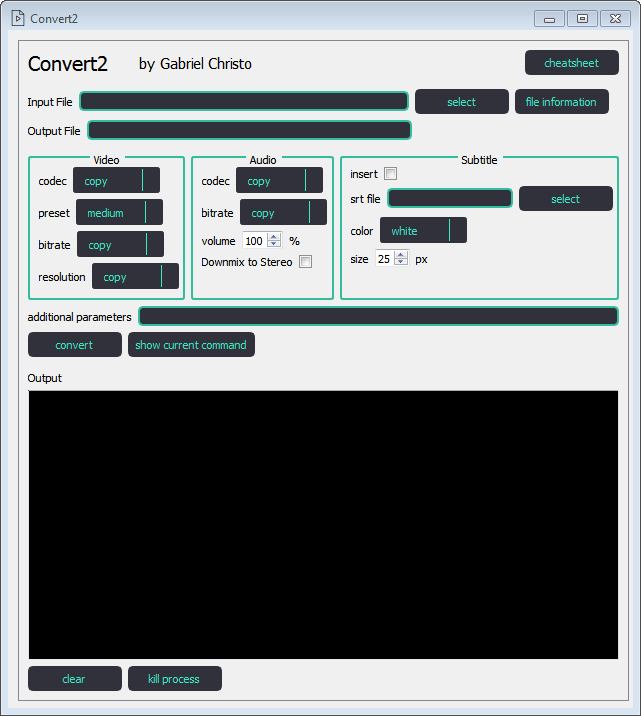
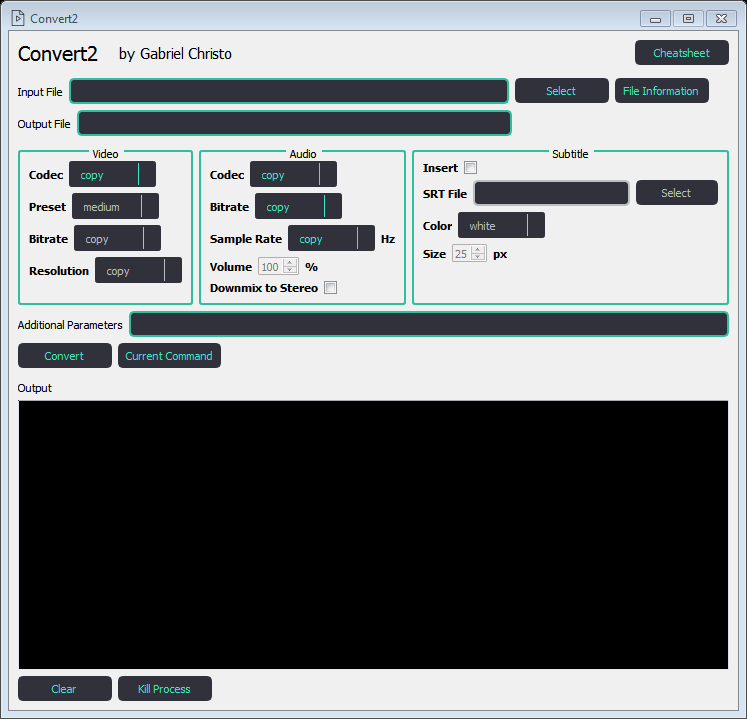
added audio rate option video and audio codec logic at command builder updated readme and screenshot style and ui changes

Changed region(s): [[0.0, 0.0, 1.0, 1.0]]

diff --git a/style.css b/style.css
@@ -11,10 +11,7 @@ Gray				rgb(185, 190, 192)
 
 https://doc.qt.io/qt-5/stylesheet-reference.html
 
-background-color: qlineargradient(spread:pad, x1:0, y1:0, x2:1, y2:1, stop:0 rgba(42, 44, 111, 255), stop:0.521368 rgba(28, 29, 73, 255));
-
 */
-
 
 /* Cheatsheet */
 scrollablePopup QLabel{
@@ -88,6 +85,7 @@ QLineEdit {
     background: rgb(48, 49, 59);
 	color: rgb(60, 231, 195);
     selection-background-color: rgb(185, 190, 192);
+	height: 22px;
 }
 QLineEdit:hover, QLineEdit:focus{
 	border: 2px solid rgb(86, 133, 184);
@@ -116,6 +114,9 @@ QPushButton:pressed {
 }
 QPushButton:!enabled{
 	color: rgb(185, 190, 192);
+}
+QPushButton#sSelectButton{
+	padding: 4px 0px;
 }
 	
 	

diff --git a/convert2.py b/convert2.py
@@ -23,16 +23,16 @@ class Convert2(QMainWindow):
 	def __init__(self):
 		super(__class__, self).__init__()
 		uic.loadUi("./convert2.ui", self)
-		self.setWindowTitle("Convert2 - by Gabriel Christo")
+		self.setWindowTitle("Convert2")
 		self.setWindowIcon(QIcon("./icon.png"))
-		self.nameLabel.setVisible(False)
+		self.setWindowFlags(Qt.WindowCloseButtonHint | Qt.WindowMinimizeButtonHint)
+		self.nameLabel.setVisible(True)
 		self.command = CmdBuilder()
 		self.path = QDir.currentPath()
 		self.process = QProcess(self)
 		self.process.setProcessChannelMode(QProcess.MergedChannels)
 		self.popup = scrollablePopup()
 		self.connects()
-		
 		
 	def connects(self):
 	
@@ -57,6 +57,7 @@ class Convert2(QMainWindow):
 		self.aBitrateCombo.currentTextChanged.connect(self.command.set_audio_bitrate) # set audio bitrate
 		self.downmixCheckbox.stateChanged.connect(self.command.set_audio_downmix) # set audio downmix
 		self.aVolumeSpinbox.valueChanged.connect(self.command.set_audio_volume) # set audio volume
+		self.aRateCombobox.currentTextChanged.connect(self.command.set_audio_rate) # set audio sample rate frequency
 		
 		self.sCheckbox.stateChanged.connect(self.command.set_subtitle_insert) # set subtitle use
 		self.sCheckbox.stateChanged.connect(self.toggle_subtitle_options) # enable/disable subtitle options
@@ -120,6 +121,7 @@ class Convert2(QMainWindow):
 	def show_cheatsheet(self) -> None:
 		self.popup.setText(CHEATSHEET + XBOX_FORMATS)
 		self.popup.setTitle("FFMPEG Cheatsheet")
+		self.popup.setWindowIcon(QIcon("./icon.png"))
 		self.popup.show()
 		
 	def show_message_box(self, text: str, title: str) -> None:
@@ -127,6 +129,7 @@ class Convert2(QMainWindow):
 		msgBox.setIcon(QMessageBox.Information)
 		msgBox.setText(text)
 		msgBox.setWindowTitle(title)
+		msgBox.setWindowIcon(QIcon("./icon.png"))
 		msgBox.setStandardButtons(QMessageBox.Ok)
 		msgBox.exec()
 		
@@ -140,9 +143,7 @@ class Convert2(QMainWindow):
 	@pyqtSlot(str)
 	def toggle_audio_options(self, crrtText: str) -> None:
 		bool = False if crrtText == "copy" else True
-		self.aBitrateCombo.setEnabled(bool)
 		self.aVolumeSpinbox.setEnabled(bool)
-		self.downmixCheckbox.setEnabled(bool)
 	
 	@pyqtSlot(int)
 	def toggle_subtitle_options(self, crrtState: int) -> None:

diff --git a/commandBuilder.py b/commandBuilder.py
@@ -17,6 +17,7 @@ class CmdBuilder(QObject):
 		self.abitrate = "copy"
 		self.adownmix = False
 		self.avolume = 100
+		self.arate = "copy"
 		
 		self.sinsert = False
 		self.ssize = 25;
@@ -69,7 +70,7 @@ class CmdBuilder(QObject):
 		else: return AUDIO_BITRATE + [self.abitrate]
 		
 	def get_video_bitrate_cmd(self) -> List[str]:
-		if self.vbitrate == "copy": return []
+		if self.vbitrate == "copy" or self.vcodec == "copy": return []
 		else:
 			vbit = [self.vbitrate]
 			return VIDEO_BITRATE + vbit + MAX_RATE + vbit + BUFSIZE + vbit
@@ -78,11 +79,11 @@ class CmdBuilder(QObject):
 		return AUDIO_CODEC + [self.acodec]
 		
 	def get_video_resolution_cmd(self) -> List[str]:
-		if self.vresolution == "copy": return []
+		if self.vresolution == "copy" or self.vcodec == "copy": return []
 		else: return VIDEO_RESOLUTION + [self.vresolution]
 		
 	def get_video_preset_cmd(self) -> List[str]:
-		if self.vpreset == "medium": return []
+		if self.vpreset == "medium" or self.vcodec == "copy": return []
 		else: return VIDEO_PRESET + [self.vpreset]
 		
 	def get_audio_downmix_cmd(self) -> List[str]:
@@ -100,6 +101,7 @@ class CmdBuilder(QObject):
 		cmd += self.get_subtitle_cmd(kwargs.get('s'))
 		cmd += self.get_audio_codec_cmd()
 		cmd += self.get_audio_bitrate_cmd()
+		cmd += self.get_audio_rate_cmd()
 		cmd += self.get_audio_downmix_cmd()
 		cmd += self.get_audio_volume_cmd()
 		additional = kwargs.get('a')
@@ -111,7 +113,7 @@ class CmdBuilder(QObject):
 		
 		
 	def get_audio_volume_cmd(self) -> List[str]:
-		if self.avolume == 100: return []
+		if self.avolume == 100 or self.acodec == "copy": return []
 		else: return AUDIO_FILTER + [AUDIO_VOLUME_LABEL.format(self.avolume/100)]
 		
 	@pyqtSlot(int)
@@ -141,5 +143,13 @@ class CmdBuilder(QObject):
 	def set_subtitle_insert(self, insert: int) -> None:
 		if DEBUG: print(insert)
 		self.sinsert = (False if insert == 0 else True)
-
+		
+	@pyqtSlot(str)
+	def set_audio_rate(self, rate: str) -> None:
+		if DEBUG: print(rate)
+		self.arate = rate
+		
+	def get_audio_rate_cmd(self) -> List[str]:
+		if self.arate == "copy": return []
+		else: return AUDIO_RATE + [self.arate]
 		

diff --git a/constants.py b/constants.py
@@ -28,7 +28,7 @@ SUBTITLE_YELLOW = "00FFFF"
 # define codec for audio stream
 # receives the desired codec
 AUDIO_CODEC = ["-c:a"]
-AAC_OPTION = ["-aac_coder", "fast"]
+AAC_OPTION = ["-aac_coder", "fast"] # not being used
 # define bitrate for audio stream
 # receives the desired bitrate
 AUDIO_BITRATE = ["-b:a"]
@@ -37,6 +37,9 @@ AUDIO_DOWNMIX = ['-ac', '2']
 # define volume of audio stream
 AUDIO_FILTER = ["-filter:a"]
 AUDIO_VOLUME_LABEL = "volume={}"
+# defines audio sample rate
+# receives desired frequency in Hz
+AUDIO_RATE = ["-ar"]
 
 # hide ffmpeg banner
 HIDE_BANNER = ["-hide_banner"]

diff --git a/README.md b/README.md
@@ -14,4 +14,4 @@ pip install -r requirements.txt
 python main.py
 ```
 
-<img src="screenshot.png" width="641" height="716">
+<img src="screenshot.png" width="747" height="719">
